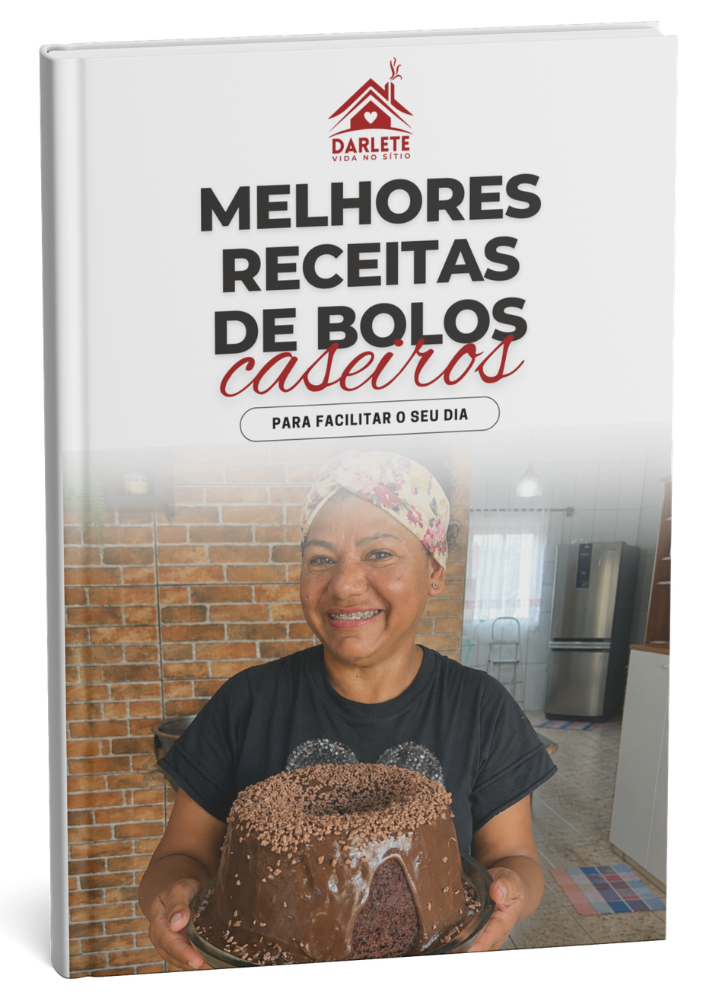
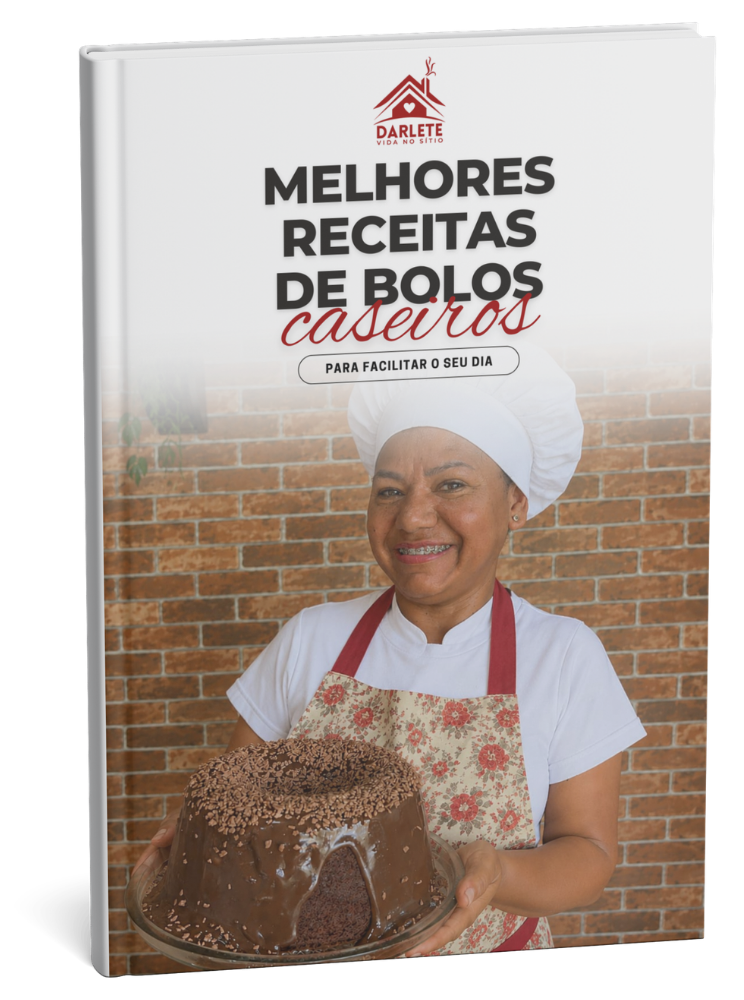
final

diff --git a/index.html b/index.html
@@ -4,7 +4,7 @@
   <meta charset="UTF-8" />
   <meta name="viewport" content="width=device-width, initial-scale=1.0" />
   <title>Receitas Que Encantam — Darlete Honorato</title>
-  <meta name="description" content="Combo exclusivo com dois e-books de receitas: Bolos Caseiros e Receitas Salgadas. Acesso imediato por apenas R$ 41,86." />
+  <meta name="description" content="Combo exclusivo com dois e-books de receitas: Bolos Caseiros e Receitas Salgadas. Acesso imediato por apenas R$ 24,00." />
   <link rel="preconnect" href="https://fonts.googleapis.com" />
   <link rel="preconnect" href="https://fonts.gstatic.com" crossorigin />
   <link href="https://fonts.googleapis.com/css2?family=Playfair+Display:ital,wght@0,400;0,600;0,700;0,800;1,400;1,600&family=Outfit:wght@300;400;500;600;700&display=swap" rel="stylesheet" />
@@ -1292,9 +1292,9 @@
           </p>
 
           <div class="hero__price-block">
-            <span class="hero__price-from">De R$ 59,80</span>
+            <span class="hero__price-from">De R$ 29,98</span>
             <span class="hero__price-label">Por apenas</span>
-            <div class="hero__price-value"><span>R$</span> 41,86</div>
+            <div class="hero__price-value"><span>R$</span> 24,00</div>
           </div>
 
           <div class="hero__actions">
@@ -1360,7 +1360,7 @@
             <img class="ebook-block__book-img" src="images/1.png" alt="E-book Bolos Caseiros" />
             <div class="ebook-block__price-tag">
               <small>apenas</small>
-              R$ 29,90
+              R$ 14,99
             </div>
           </div>
         </div>
@@ -1393,7 +1393,7 @@
             <img class="ebook-block__book-img" src="images/2.png" alt="E-book Receitas Salgadas" />
             <div class="ebook-block__price-tag">
               <small>apenas</small>
-              R$ 29,90
+              R$ 14,99
             </div>
           </div>
         </div>
@@ -1518,19 +1518,19 @@ Com amor,
           <div class="offer__items">
             <div class="offer__item">
               <span class="offer__item-name">Receitas de Bolos Caseiros</span>
-              <span class="offer__item-price">R$ 29,90</span>
+              <span class="offer__item-price">R$ 14,99</span>
             </div>
             <div class="offer__plus">+</div>
             <div class="offer__item">
               <span class="offer__item-name">Receitas Salgadas</span>
-              <span class="offer__item-price">R$ 29,90</span>
+              <span class="offer__item-price">R$ 14,99</span>
             </div>
           </div>
 
           <div class="offer__combo">
             <div class="offer__combo-label">Combo Especial</div>
-            <div class="offer__combo-price"><sup>R$</sup>41,86</div>
-            <div class="offer__combo-savings">Você economiza R$ 17,94</div>
+            <div class="offer__combo-price"><sup>R$</sup>24,00</div>
+            <div class="offer__combo-savings">Você economiza R$ 5,98</div>
           </div>
         </div>
 
@@ -1626,7 +1626,7 @@ Com amor,
             Se você ainda tem dúvidas, veja as respostas abaixo. E se precisar de mais ajuda,
             é só falar com a gente.
           </p>
-          <a href="#" class="btn-primary" style="margin-top:24px;">Falar com Suporte →</a>
+          <a href="https://wa.me/556599940468" target="_blank" rel="noopener" class="btn-primary" style="margin-top:24px;">Falar com Suporte →</a>
         </div>
 
         <div class="faq__list fade-up fade-up-delay-2">
@@ -1717,8 +1717,8 @@ Com amor,
             sabor, praticidade e oportunidade.
           </p>
           <div class="cta-final__price">
-            <span class="cta-final__price-from">De R$ 59,80</span>
-            <div class="cta-final__price-val">R$ 41,86</div>
+            <span class="cta-final__price-from">De R$ 29,98</span>
+            <div class="cta-final__price-val">R$ 24,00</div>
           </div>
           <div class="cta-final__actions">
             <a href="#" class="btn-primary" style="max-width:100%;font-size:16px;padding:22px 44px;">
@@ -1750,6 +1750,9 @@ Com amor,
       <div class="footer__logo">
         <img src="images/logo2.png" alt="Darlete Honorato" />
       </div>
+      <p class="footer__text" style="font-style:italic;max-width:600px;margin:0 auto 20px;color:var(--cafe);line-height:1.8;">
+        Minha eterna gratidão a Deus, que sempre guiou meus passos, ao meu esposo e filhos pelo amor e apoio incondicional, e à Jorcelia Hermínio da Silva pela confiança e motivação durante esta jornada. Que Deus abençoe a todos.
+      </p>
       <p class="footer__text">
         © 2026 Darlete Honorato. Todos os direitos reservados.<br>
         Site desenvolvido por BrandCode Solutions.
